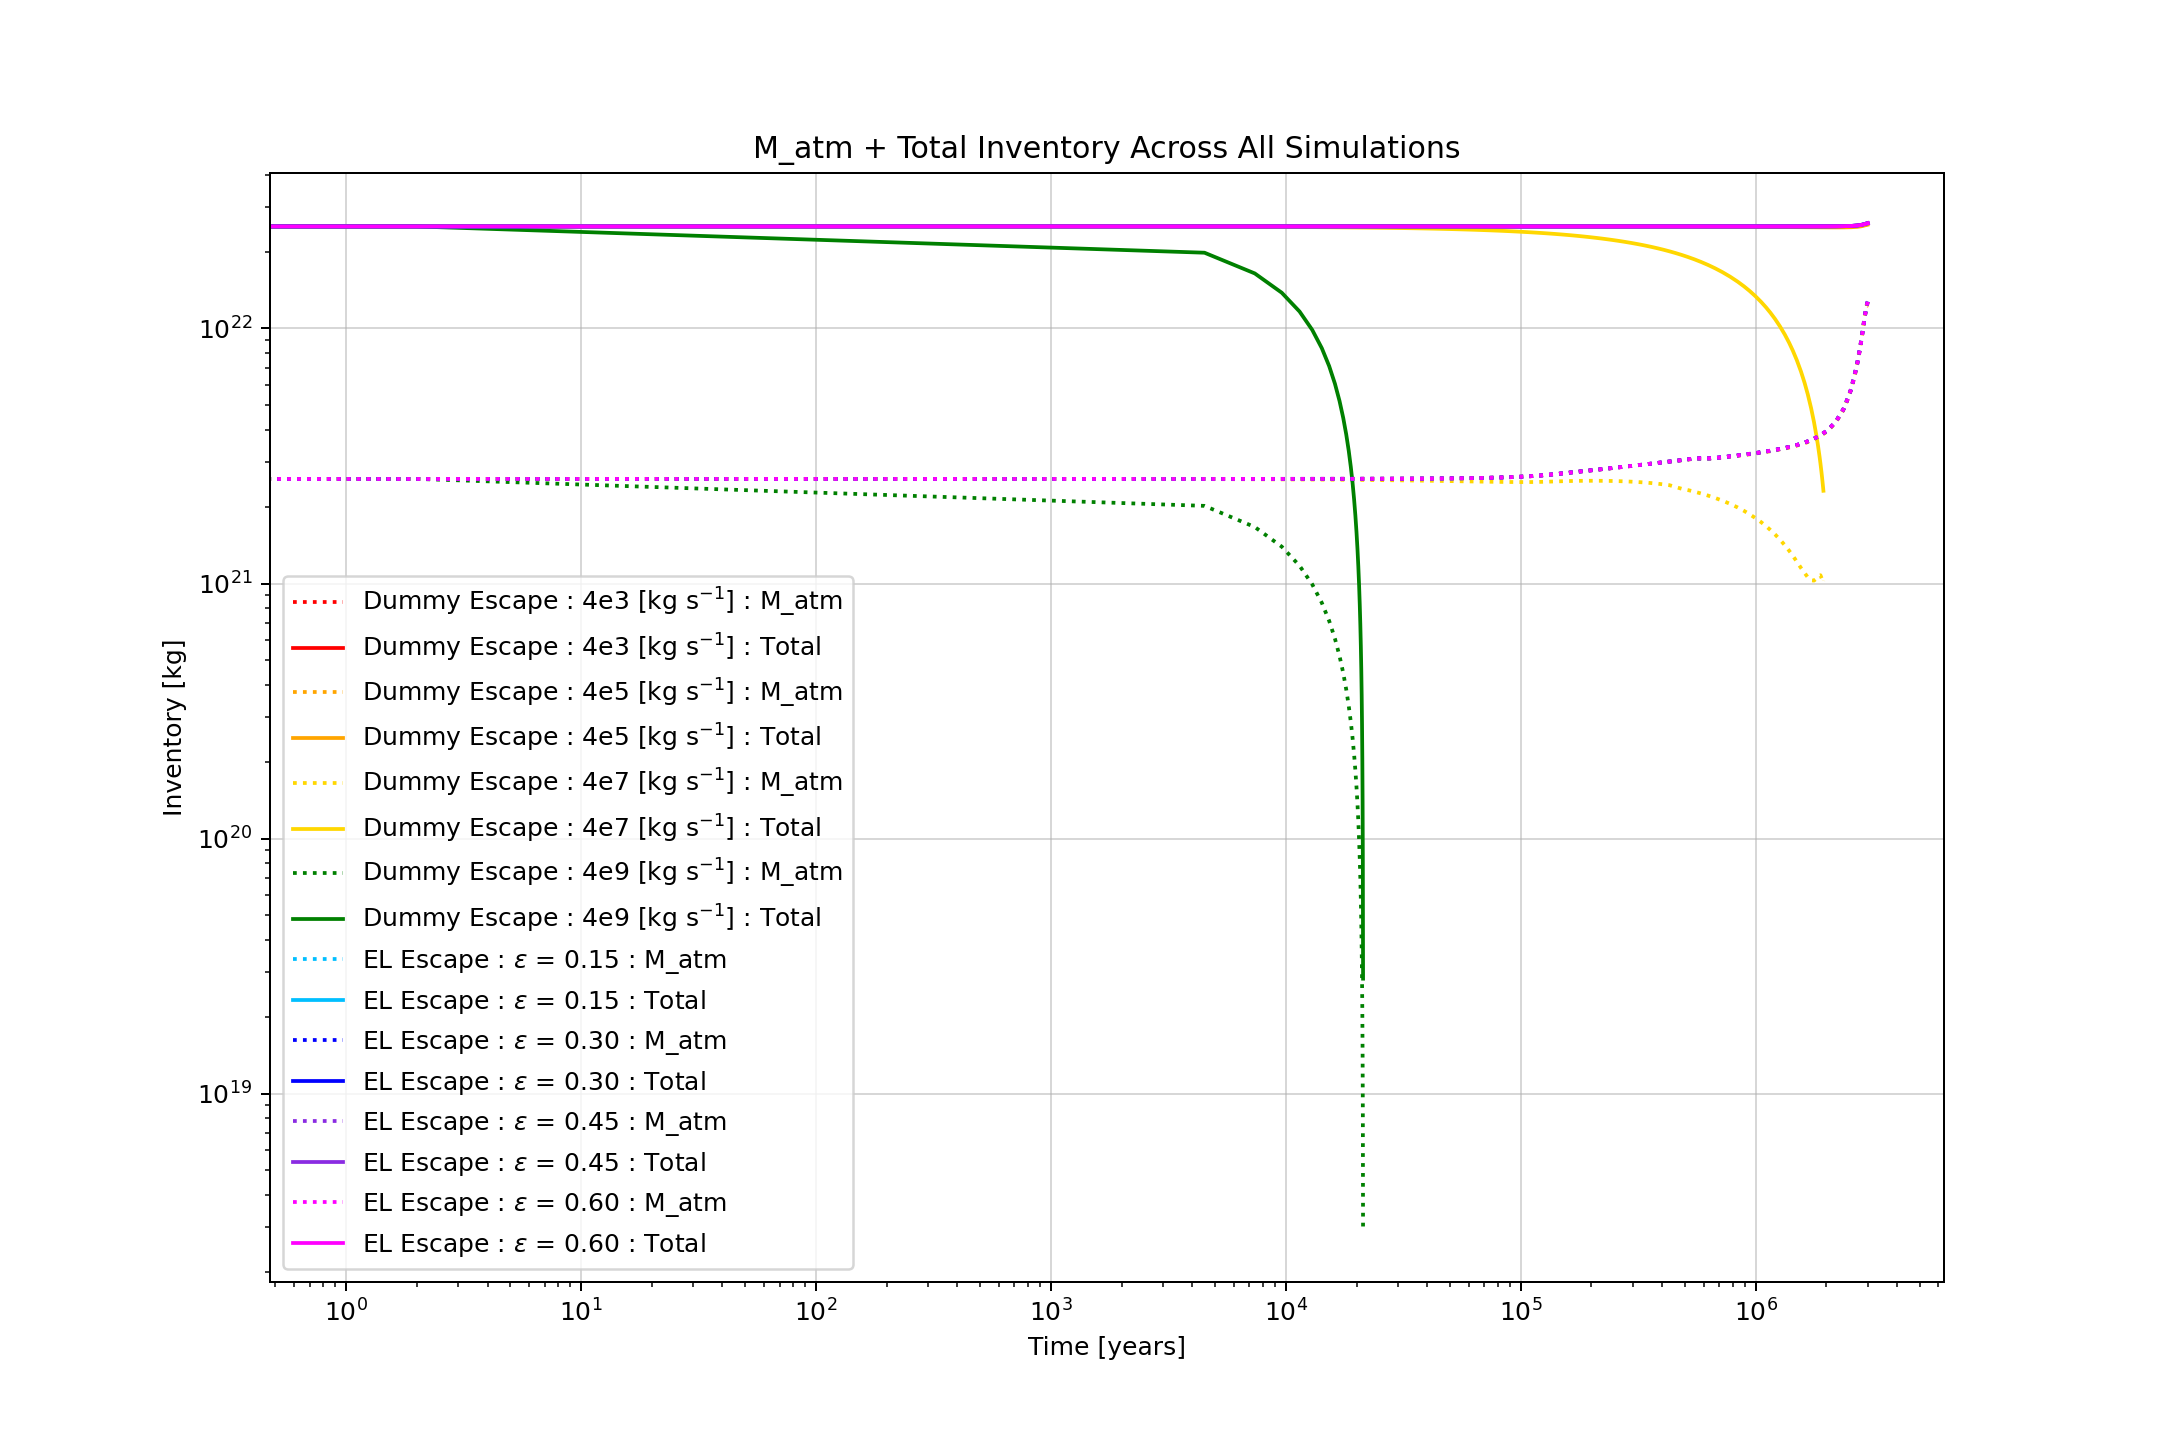
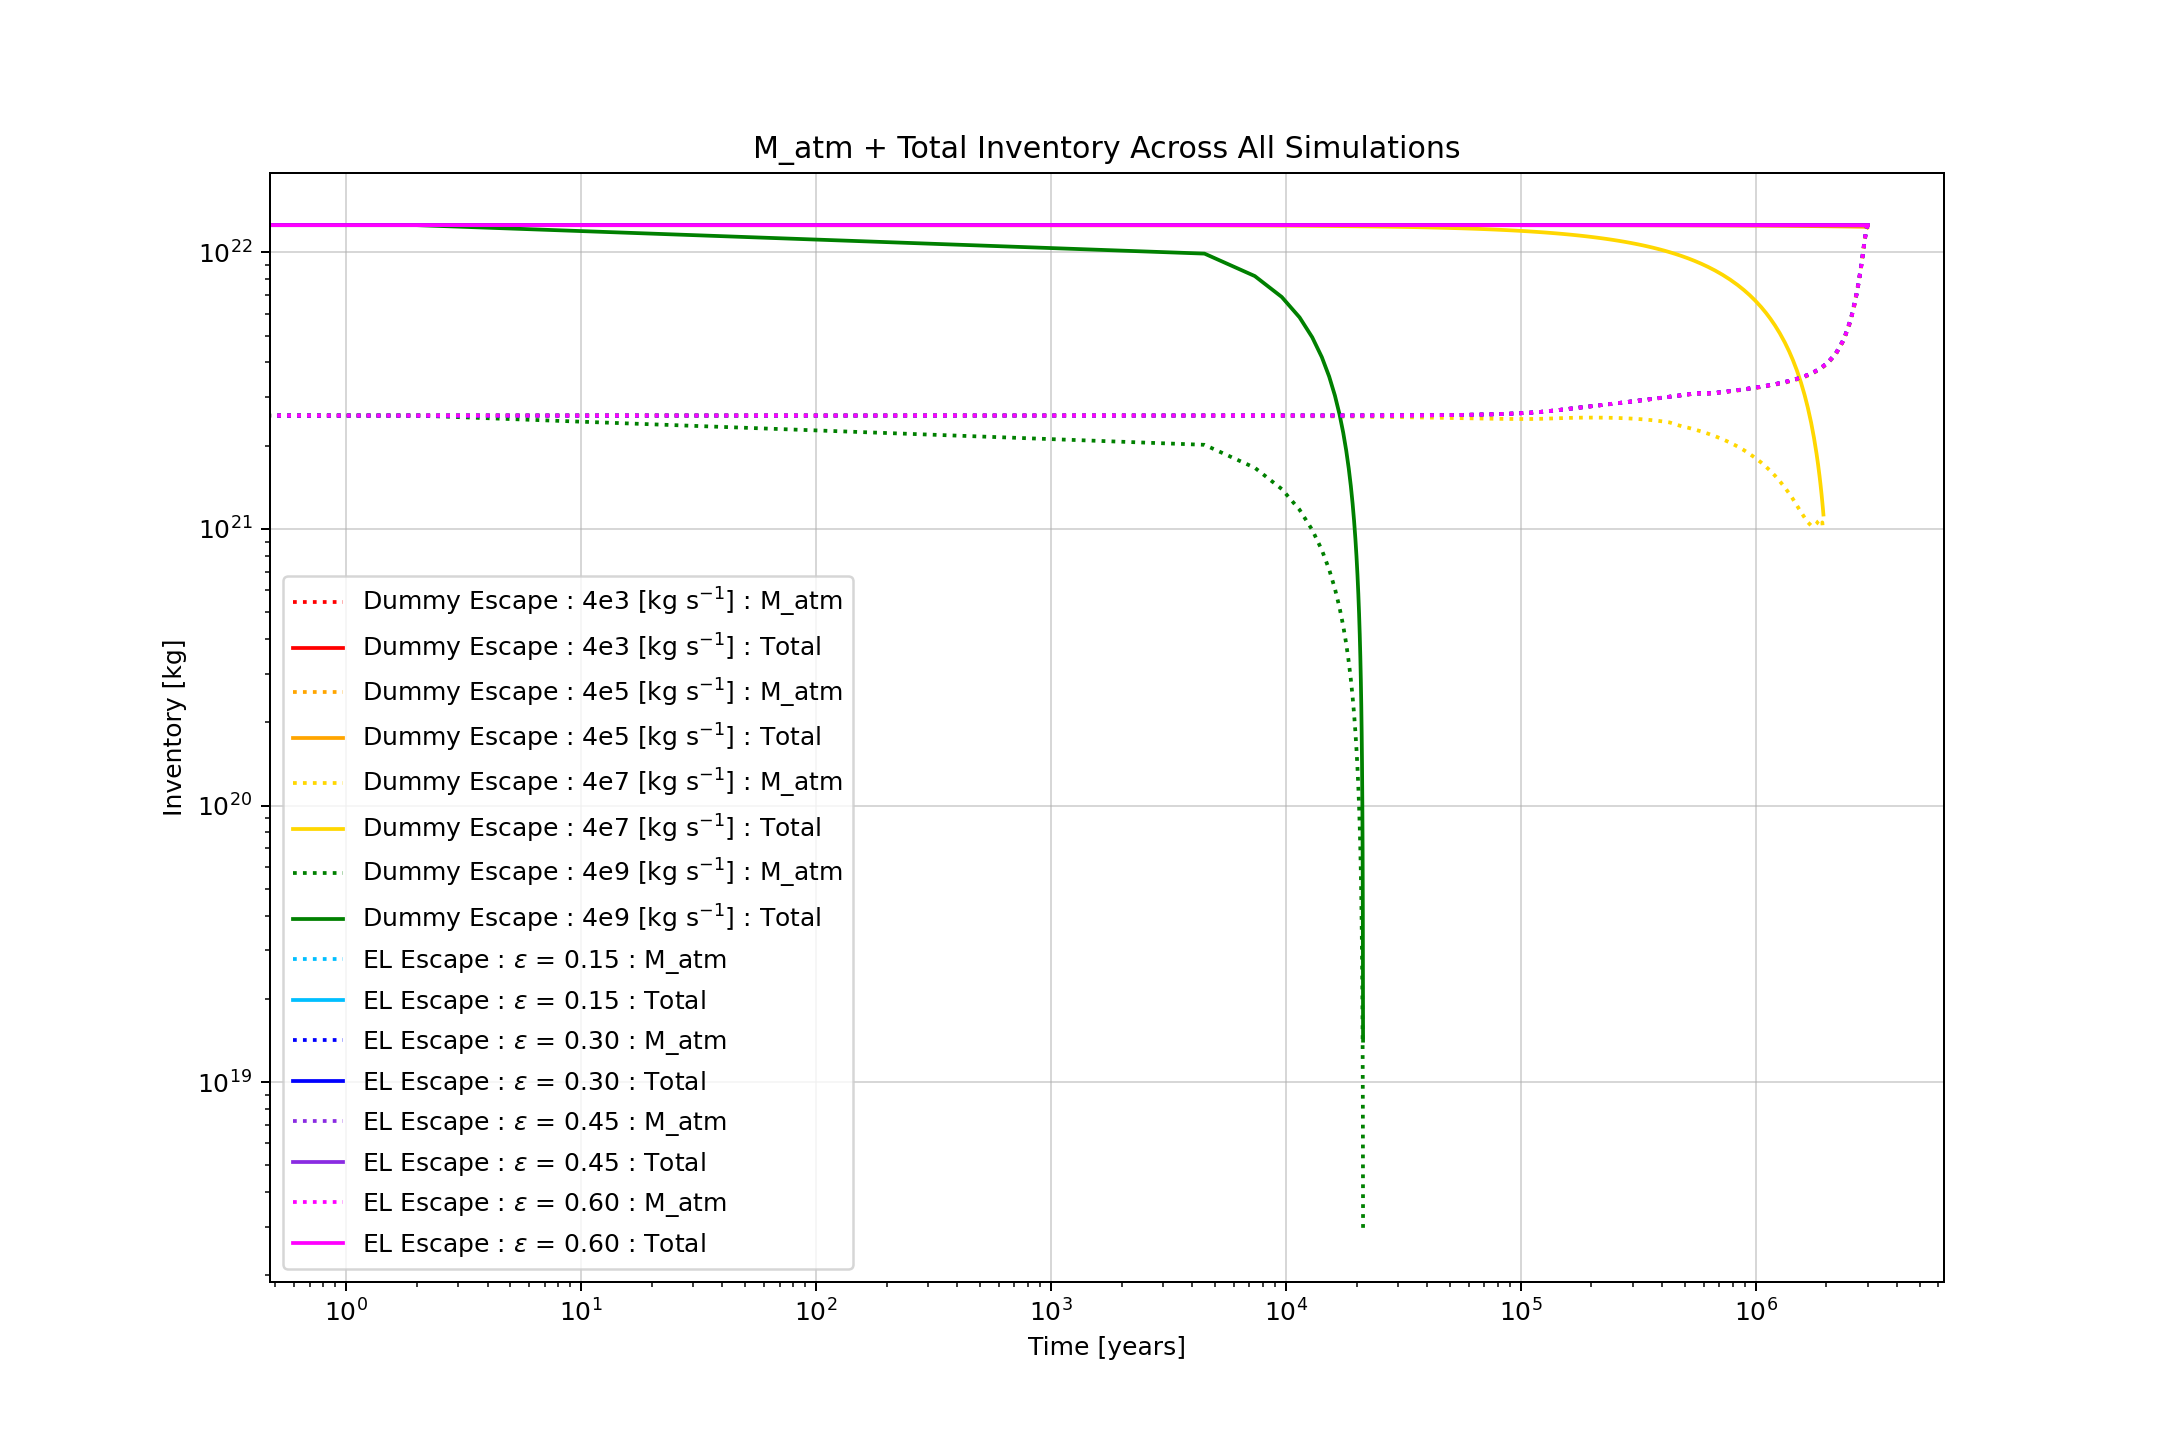
Plots to check MLR + Total mass species decrease w time : ok

diff --git a/test_escape/plots_grid_sim.py b/test_escape/plots_grid_sim.py
@@ -1,3 +1,4 @@
+import numpy as np
 import pandas as pd
 import matplotlib.pyplot as plt
 import os
@@ -57,37 +58,115 @@ plt.grid(alpha=0.5)
 plt.savefig(os.path.join(plot_dir, 'comparison_all.png'), dpi=180)
 #plt.show()
 
-
-# Plot Inventory (kg_total_column) for all simulations
+# Plot Inventory (kg_total_column) for all simulations with a zoom panel for elements
 plt.figure(figsize=(12, 8))
+
+# Main plot axes (reduced width)
+main_ax = plt.axes([0.1, 0.2, 0.6, 0.5])
+
 for i, (directory, label) in enumerate(directory_labels.items()):
     full_path = os.path.join(path_to_csv, directory, csv_file)
 
     if os.path.isfile(full_path):
         df = pd.read_csv(full_path, delimiter='\t')
-        time_column = df['Time']
+        time_column = df['Time'].astype(float)
+        df['_kg_total'] = df[['H_kg_total', 'O_kg_total', 'C_kg_total', 'N_kg_total', 'S_kg_total']].sum(axis=1)
+        kg_total_column = df['_kg_total'].replace(0, np.nan).astype(float)
         
-        # Compute the total inventory
-        df['_kg_total'] = df[['H2O_kg_total', 'CO2_kg_total', 'H2_kg_total', 'CH4_kg_total', 'CO_kg_total', 
-                              'N2_kg_total', 'S2_kg_total', 'SO2_kg_total', 'H_kg_total', 'O_kg_total', 
-                              'C_kg_total', 'N_kg_total', 'S_kg_total']].sum(axis=1)
-        
-        kg_total_column = df['_kg_total']
-        
-        # Plot kg_total_column
-        plt.loglog(time_column, kg_total_column, linestyle='-', color=color_list[i], label=label)
+        main_ax.loglog(time_column, kg_total_column, linestyle='-', color=color_list[i], label=label)
 
     else:
         print(f"Warning: {full_path} does not exist.")
 
-plt.xlabel('Time [years]')
-plt.ylabel(r'Inventory [kg]')
-plt.title('Total Inventory Across All Simulations')
-plt.legend(loc='best')
-plt.grid(alpha=0.5)
-plt.savefig(os.path.join(plot_dir, 'total_inventory_all_simulations.png'), dpi=180)
+# Zoom plot axes (further right)
+zoom_ax = plt.axes([0.8, 0.2, 0.15, 0.5])
+
+for i, (directory, label) in enumerate(directory_labels.items()):
+    full_path = os.path.join(path_to_csv, directory, csv_file)
+
+    if os.path.isfile(full_path):
+        df = pd.read_csv(full_path, delimiter='\t')
+        time_column = df['Time'].astype(float)
+        df['_kg_total'] = df[['H_kg_total', 'O_kg_total', 
+                              'C_kg_total', 'N_kg_total', 'S_kg_total']].sum(axis=1)
+        
+        kg_total_column = df['_kg_total'].replace(0, np.nan).astype(float)
+        
+        zoom_ax.loglog(time_column, kg_total_column, linestyle='-', color=color_list[i], label=label)
+
+    else:
+        print(f"Warning: {full_path} does not exist.")
+
+# Adjusted zoom limits as requested
+zoom_ax.set_xlim(1e3, 1e7)
+zoom_ax.set_ylim(1.2545e22, 1.2554e22)
+zoom_ax.grid(alpha=0.5)
+
+main_ax.set_xlabel('Time [years]')
+main_ax.set_ylabel(r'Inventory [kg]')
+main_ax.set_title('Total Inventory Across All Simulations : Elements H,O,C,N,S')
+main_ax.legend(loc='best')
+main_ax.grid(alpha=0.5)
+
+plt.savefig(os.path.join(plot_dir, 'total_inventory_all_simulations_with_zoom_elements.png'), dpi=180)
 #plt.show()
 
+
+# Plot Inventory (kg_total_column) for all simulations with a zoom panel for volatiles
+plt.figure(figsize=(12, 8))
+
+# Main plot axes (reduced width)
+main_ax = plt.axes([0.1, 0.2, 0.6, 0.5])
+
+for i, (directory, label) in enumerate(directory_labels.items()):
+    full_path = os.path.join(path_to_csv, directory, csv_file)
+
+    if os.path.isfile(full_path):
+        df = pd.read_csv(full_path, delimiter='\t')
+        time_column = df['Time'].astype(float)
+        df['_kg_total'] = df[['H_kg_total', 'O_kg_total', 'C_kg_total', 'N_kg_total', 'S_kg_total']].sum(axis=1)
+        kg_total_column = df['_kg_total'].replace(0, np.nan).astype(float)
+        
+        main_ax.loglog(time_column, kg_total_column, linestyle='-', color=color_list[i], label=label)
+
+    else:
+        print(f"Warning: {full_path} does not exist.")
+
+# Zoom plot axes (further right)
+zoom_ax = plt.axes([0.8, 0.2, 0.15, 0.5])
+
+for i, (directory, label) in enumerate(directory_labels.items()):
+    full_path = os.path.join(path_to_csv, directory, csv_file)
+
+    if os.path.isfile(full_path):
+        df = pd.read_csv(full_path, delimiter='\t')
+        time_column = df['Time'].astype(float)
+        df['_kg_total'] = df[['H2O_kg_total', 'CO2_kg_total', 'H2_kg_total', 'CH4_kg_total', 'CO_kg_total', 
+                              'N2_kg_total', 'S2_kg_total', 'SO2_kg_total']].sum(axis=1)
+        
+        kg_total_column = df['_kg_total'].replace(0, np.nan).astype(float)
+        
+        zoom_ax.loglog(time_column, kg_total_column, linestyle='-', color=color_list[i], label=label)
+
+    else:
+        print(f"Warning: {full_path} does not exist.")
+
+# Adjusted zoom limits as requested
+zoom_ax.set_xlim(1e3, 1e7)
+zoom_ax.set_ylim(1.242e22, 1.335e22)
+zoom_ax.grid(alpha=0.5)
+
+main_ax.set_xlabel('Time [years]')
+main_ax.set_ylabel(r'Inventory [kg]')
+main_ax.set_title('Total Inventory Across All Simulations : Volatiles H2O,CO2,H2,CH4,CO,N2,S2,SO2')
+main_ax.legend(loc='best')
+main_ax.grid(alpha=0.5)
+
+plt.savefig(os.path.join(plot_dir, 'total_inventory_all_simulations_with_zoom_volatile.png'), dpi=180)
+#plt.show()
+
+
+# Plot M_atm vs time 
 plt.figure(figsize=(12, 8))
 for i, (directory, label) in enumerate(directory_labels.items()):
     full_path = os.path.join(path_to_csv, directory, csv_file)
@@ -119,8 +198,7 @@ for i, (directory, label) in enumerate(directory_labels.items()):
     if os.path.isfile(full_path):
         df = pd.read_csv(full_path, delimiter='\t')
         time_column = df['Time']
-        df['_kg_total'] = df[['H2O_kg_total', 'CO2_kg_total', 'H2_kg_total', 'CH4_kg_total', 'CO_kg_total', 
-                              'N2_kg_total', 'S2_kg_total', 'SO2_kg_total', 'H_kg_total', 'O_kg_total', 
+        df['_kg_total'] = df[['H_kg_total', 'O_kg_total', 
                               'C_kg_total', 'N_kg_total', 'S_kg_total']].sum(axis=1)
         
         kg_total_column = df['_kg_total']
@@ -263,25 +341,25 @@ plt.tight_layout()
 plt.savefig(os.path.join(plot_dir, 'comparison_el_escape_with_zoom_column_best_legend.png'), dpi=180)
 #plt.show()
 
-# Plot each el_escape_eps dataset individually
-for i, (directory, label) in enumerate(directory_labels.items()):
-    if 'el_escape_eps' in directory:
-        plt.figure(figsize=(12, 8))
-        full_path = os.path.join(path_to_csv, directory, csv_file)
+# # Plot each el_escape_eps dataset individually
+# for i, (directory, label) in enumerate(directory_labels.items()):
+#     if 'el_escape_eps' in directory:
+#         plt.figure(figsize=(12, 8))
+#         full_path = os.path.join(path_to_csv, directory, csv_file)
         
-        if os.path.isfile(full_path):
-            df = pd.read_csv(full_path, delimiter='\t')
-            time_column = df['Time']
-            escape_rate_column = df['esc_rate_total']
+#         if os.path.isfile(full_path):
+#             df = pd.read_csv(full_path, delimiter='\t')
+#             time_column = df['Time']
+#             escape_rate_column = df['esc_rate_total']
             
-            plt.loglog(time_column, escape_rate_column, linestyle='-', color=color_list[i], label=label)
-            plt.xlabel('Time [years]')
-            plt.ylabel(r'Total Escape Rate [kg s$^{-1}$]')
-            plt.title(f'{label}')
-            plt.legend()
-            plt.grid(alpha=0.5)
-            plt.savefig(os.path.join(plot_dir, f'plot_{directory}.png'), dpi=180)
-            #plt.show()
-        else:
-            print(f"Warning: {full_path} does not exist.")
+#             plt.loglog(time_column, escape_rate_column, linestyle='-', color=color_list[i], label=label)
+#             plt.xlabel('Time [years]')
+#             plt.ylabel(r'Total Escape Rate [kg s$^{-1}$]')
+#             plt.title(f'{label}')
+#             plt.legend()
+#             plt.grid(alpha=0.5)
+#             plt.savefig(os.path.join(plot_dir, f'plot_{directory}.png'), dpi=180)
+#             #plt.show()
+#         else:
+#             print(f"Warning: {full_path} does not exist.")
 
